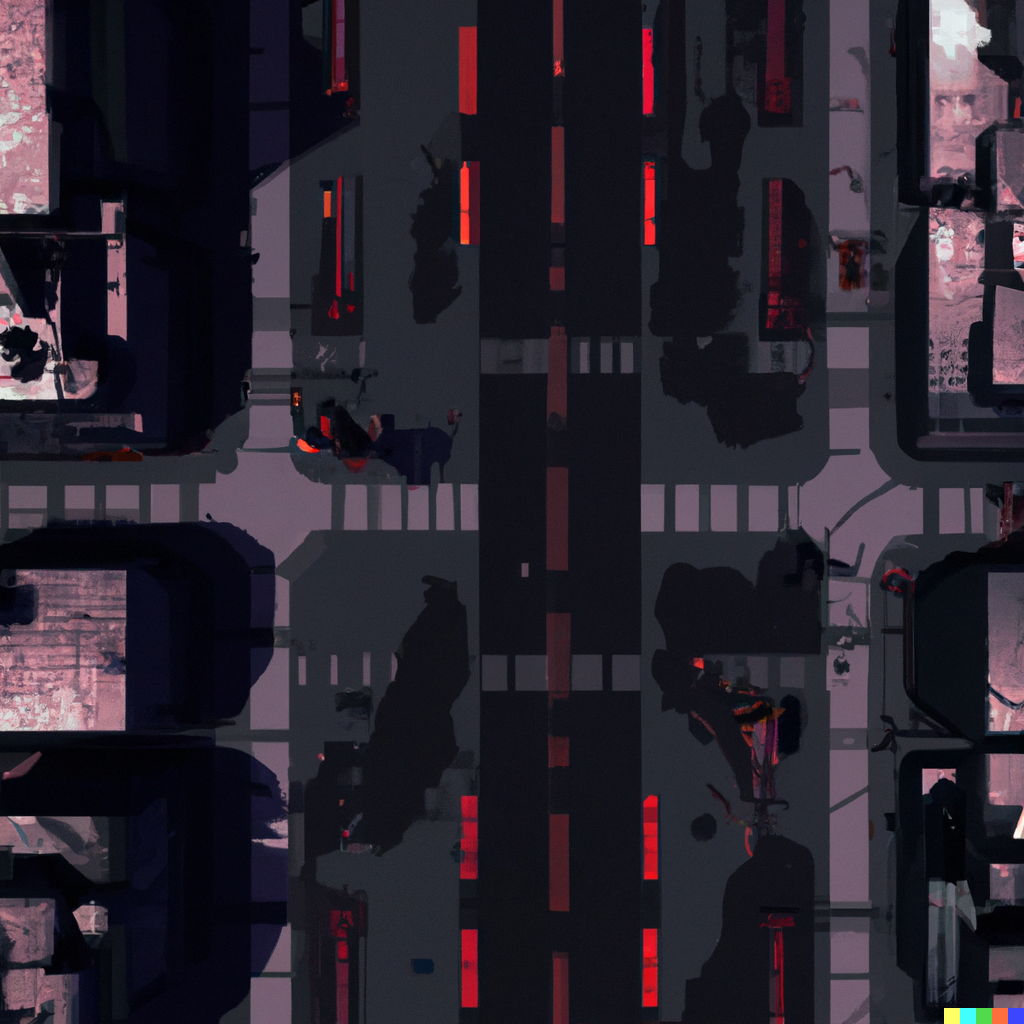
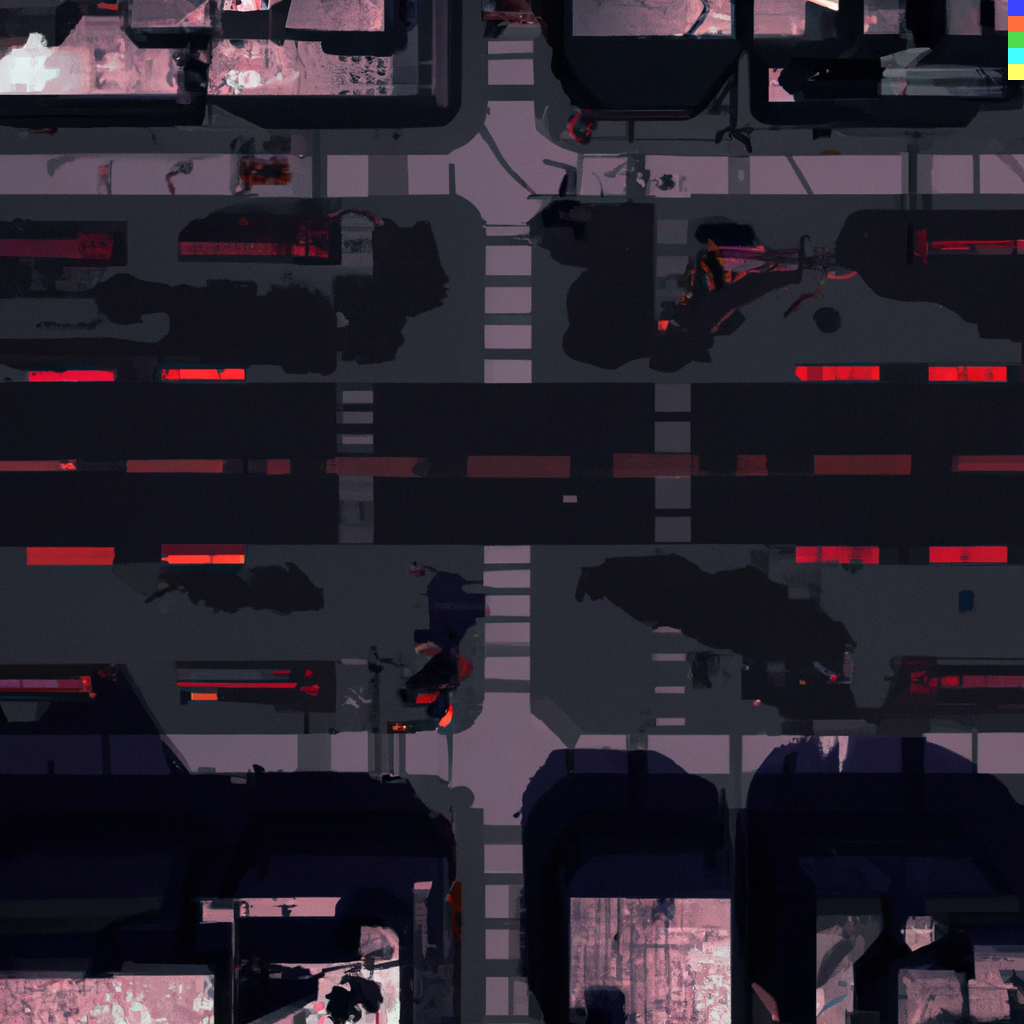
background_choice

diff --git a/cyberpunk/map_grid.py b/cyberpunk/map_grid.py
@@ -27,6 +27,14 @@ def draw_grid():
             rect = pygame.Rect(x, y, CELL_SIZE, CELL_SIZE)
             pygame.draw.rect(window, (255, 255, 255), rect, 1)
 
+# Add menu selection for background
+backgrounds = ['media/background_assets/cyber_street.png', 'media/background_assets/cyber_skyscraper.png', 'media/background_assets/cyber_desert.png']
+for i, name in enumerate(backgrounds):
+    print(f"{i+1}. {name.split('/')[-1]}")  # Print the name without the path
+choice = int(input("Enter the number of the background you want to use: "))
+original_background = pygame.image.load(backgrounds[choice - 1])
+background = pygame.transform.scale(original_background, window_size)
+
 def game_loop():
     clock = pygame.time.Clock()
     player = GameObject(0, 0, 'media/character_assets/cyber_main_char.png')
@@ -46,8 +54,7 @@ def game_loop():
                 elif event.key == pygame.K_RIGHT and player.x < GRID_SIZE - 1:
                         player.x += 1
 
-
-        window.fill((0, 0, 0))
+        window.blit(background, (0, 0))
         draw_grid()
         player.draw(window)
         pygame.display.update()
